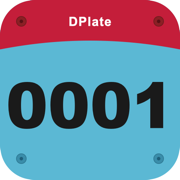
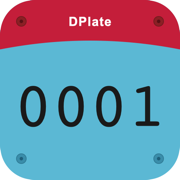
Update UX

Changed region(s): [[0.0278, 0.4444, 0.7222, 0.7222], [0.75, 0.4444, 0.9167, 0.7222]]

diff --git a/src/components/PlatePreview.tsx b/src/components/PlatePreview.tsx
@@ -42,6 +42,26 @@ export function PlatePreview({ plate }: PlatePreviewProps) {
         className="w-full max-w-[300px] h-auto rounded-lg overflow-hidden"
         style={{ filter: 'drop-shadow(0 2px 8px rgba(0,0,0,0.3))' }}
       >
+        <defs>
+          <filter id="emboss" x="-4%" y="-10%" width="108%" height="120%">
+            {/* Blur the silhouette of the text */}
+            <feGaussianBlur in="SourceAlpha" stdDeviation="1.8" result="alphaBlur" />
+            {/* Upper-left highlight */}
+            <feOffset in="alphaBlur" dx="-2" dy="-2.5" result="highlightOffset" />
+            <feFlood floodColor="#5bd4ee" floodOpacity="0.55" result="highlightFlood" />
+            <feComposite in="highlightFlood" in2="highlightOffset" operator="in" result="highlight" />
+            {/* Lower-right shadow */}
+            <feOffset in="alphaBlur" dx="2.5" dy="3" result="shadowOffset" />
+            <feFlood floodColor="#000000" floodOpacity="0.55" result="shadowFlood" />
+            <feComposite in="shadowFlood" in2="shadowOffset" operator="in" result="shadow" />
+            {/* Stack: shadow → highlight → text (text always on top) */}
+            <feMerge>
+              <feMergeNode in="shadow" />
+              <feMergeNode in="highlight" />
+              <feMergeNode in="SourceGraphic" />
+            </feMerge>
+          </filter>
+        </defs>
         <rect width="480" height="240" rx="12" fill="#5bb8d4" />
         <path d="M0 0 L480 0 L480 65 Q240 42 0 65 Z" fill="#c41e3a" />
         {bannerLabel && (
@@ -64,18 +84,20 @@ export function PlatePreview({ plate }: PlatePreviewProps) {
           y="152"
           textAnchor="middle"
           dominantBaseline="middle"
-          fontFamily="'Bebas Neue', 'Arial Narrow', Arial, sans-serif"
+          fontFamily="'Brygada 1918', serif"
           fontSize="96"
           fontWeight="400"
-          fill="#1a1a1a"
+          fill="#111111"
+          filter="url(#emboss)"
+          transform="translate(240,152) scale(0.94,1.44) translate(-240,-155)"
         >
           {displayPlate}
         </text>
         {/* Screws */}
-        <circle cx="30" cy="28" r="6" fill="#8b2025" stroke="#721a1e" strokeWidth="1" />
-        <circle cx="450" cy="28" r="6" fill="#8b2025" stroke="#721a1e" strokeWidth="1" />
-        <circle cx="30" cy="212" r="6" fill="#3a8daa" stroke="#2e7a95" strokeWidth="1" />
-        <circle cx="450" cy="212" r="6" fill="#3a8daa" stroke="#2e7a95" strokeWidth="1" />
+        <circle cx="130" cy="28" r="6" fill="#8b2025" stroke="#721a1e" strokeWidth="1" />
+        <circle cx="350" cy="28" r="6" fill="#8b2025" stroke="#721a1e" strokeWidth="1" />
+        <circle cx="130" cy="212" r="6" fill="#3a8daa" stroke="#2e7a95" strokeWidth="1" />
+        <circle cx="350" cy="212" r="6" fill="#3a8daa" stroke="#2e7a95" strokeWidth="1" />
       </svg>
     </div>
   )

diff --git a/index.html b/index.html
@@ -11,6 +11,9 @@
     <meta name="theme-color" content="#0f172a" />
     <meta name="description" content="Track diplomatic license plates in Washington, DC" />
     <title>DPlate</title>
+    <link rel="preconnect" href="https://fonts.googleapis.com" />
+    <link rel="preconnect" href="https://fonts.gstatic.com" crossorigin />
+    <link href="https://fonts.googleapis.com/css2?family=Bebas+Neue&family=Brygada+1918:ital,wght@0,400;0,700;1,400&display=swap" rel="stylesheet" />
   </head>
   <body>
     <div id="root"></div>

diff --git a/src/index.css b/src/index.css
@@ -1,5 +1,4 @@
 @import "tailwindcss";
-@import url('https://fonts.googleapis.com/css2?family=Bebas+Neue&display=swap');
 
 @theme {
   --color-background: #0f172a;
